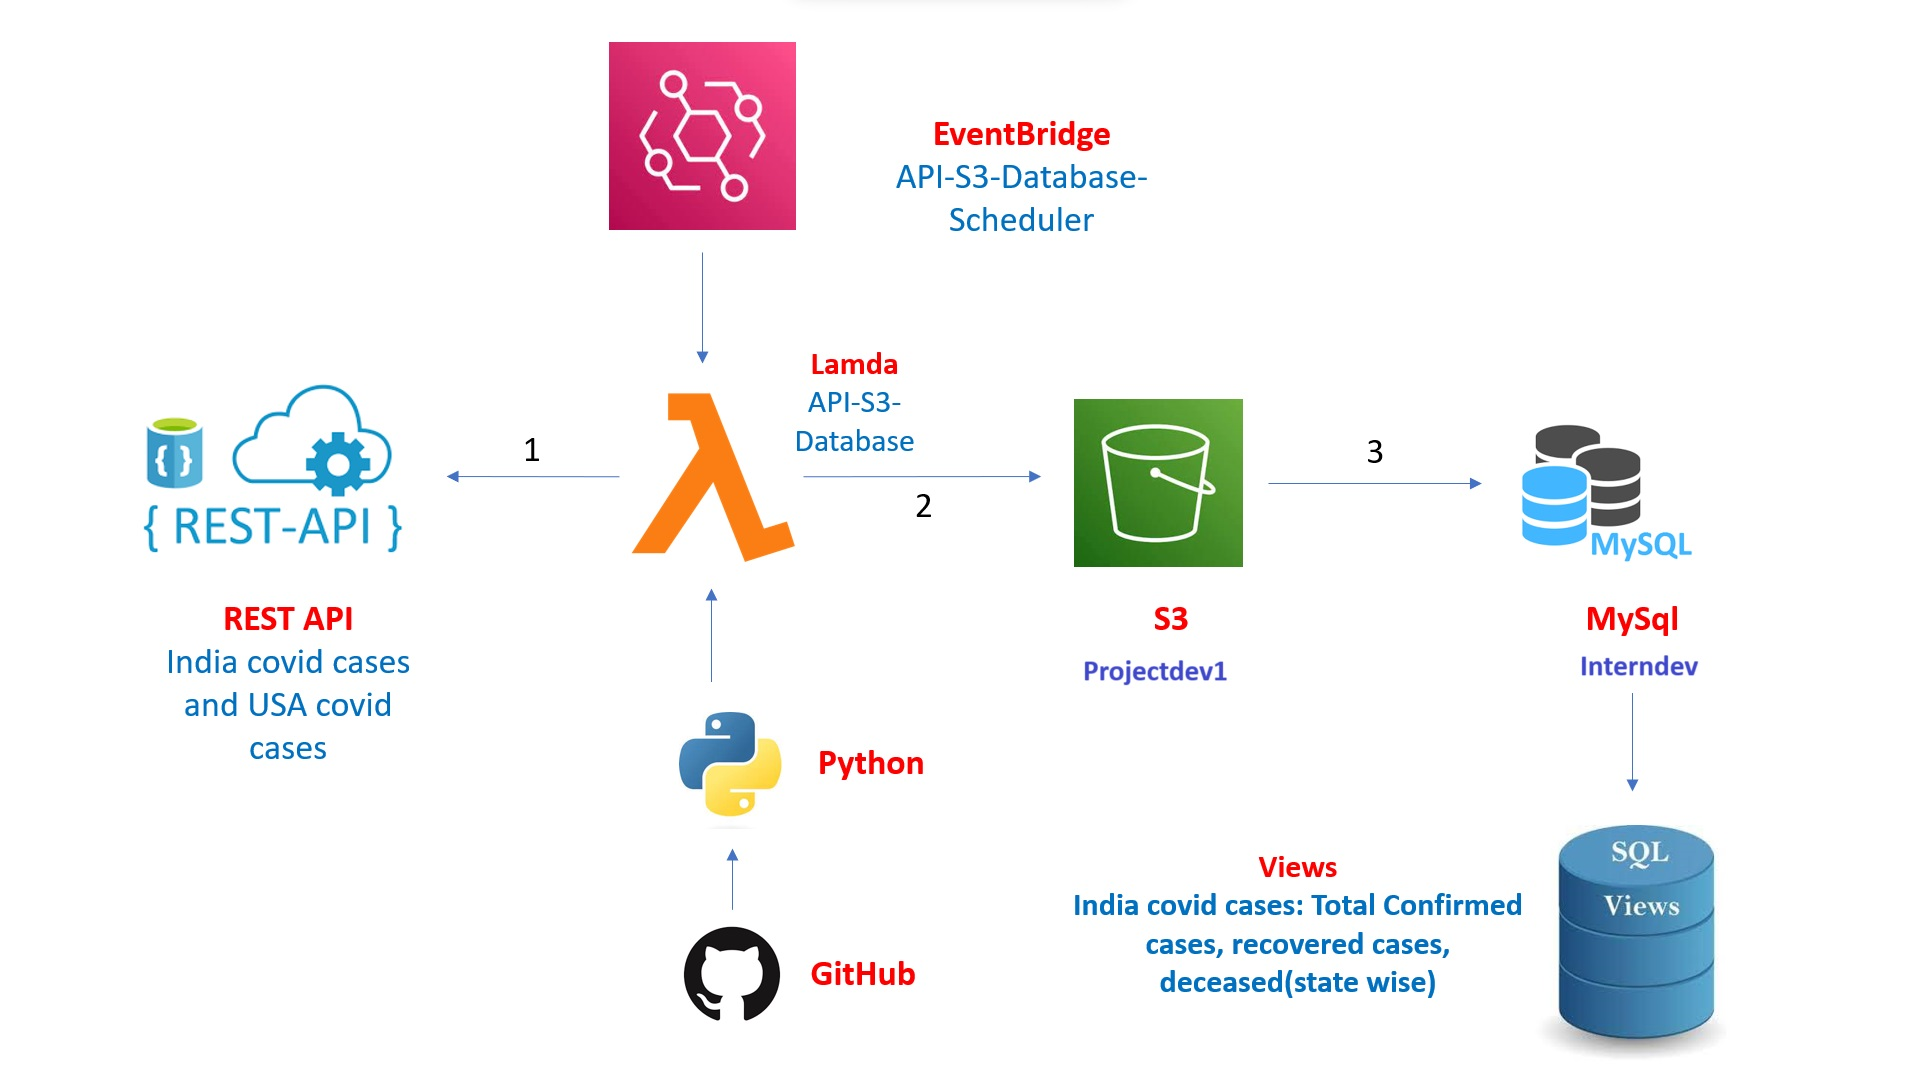
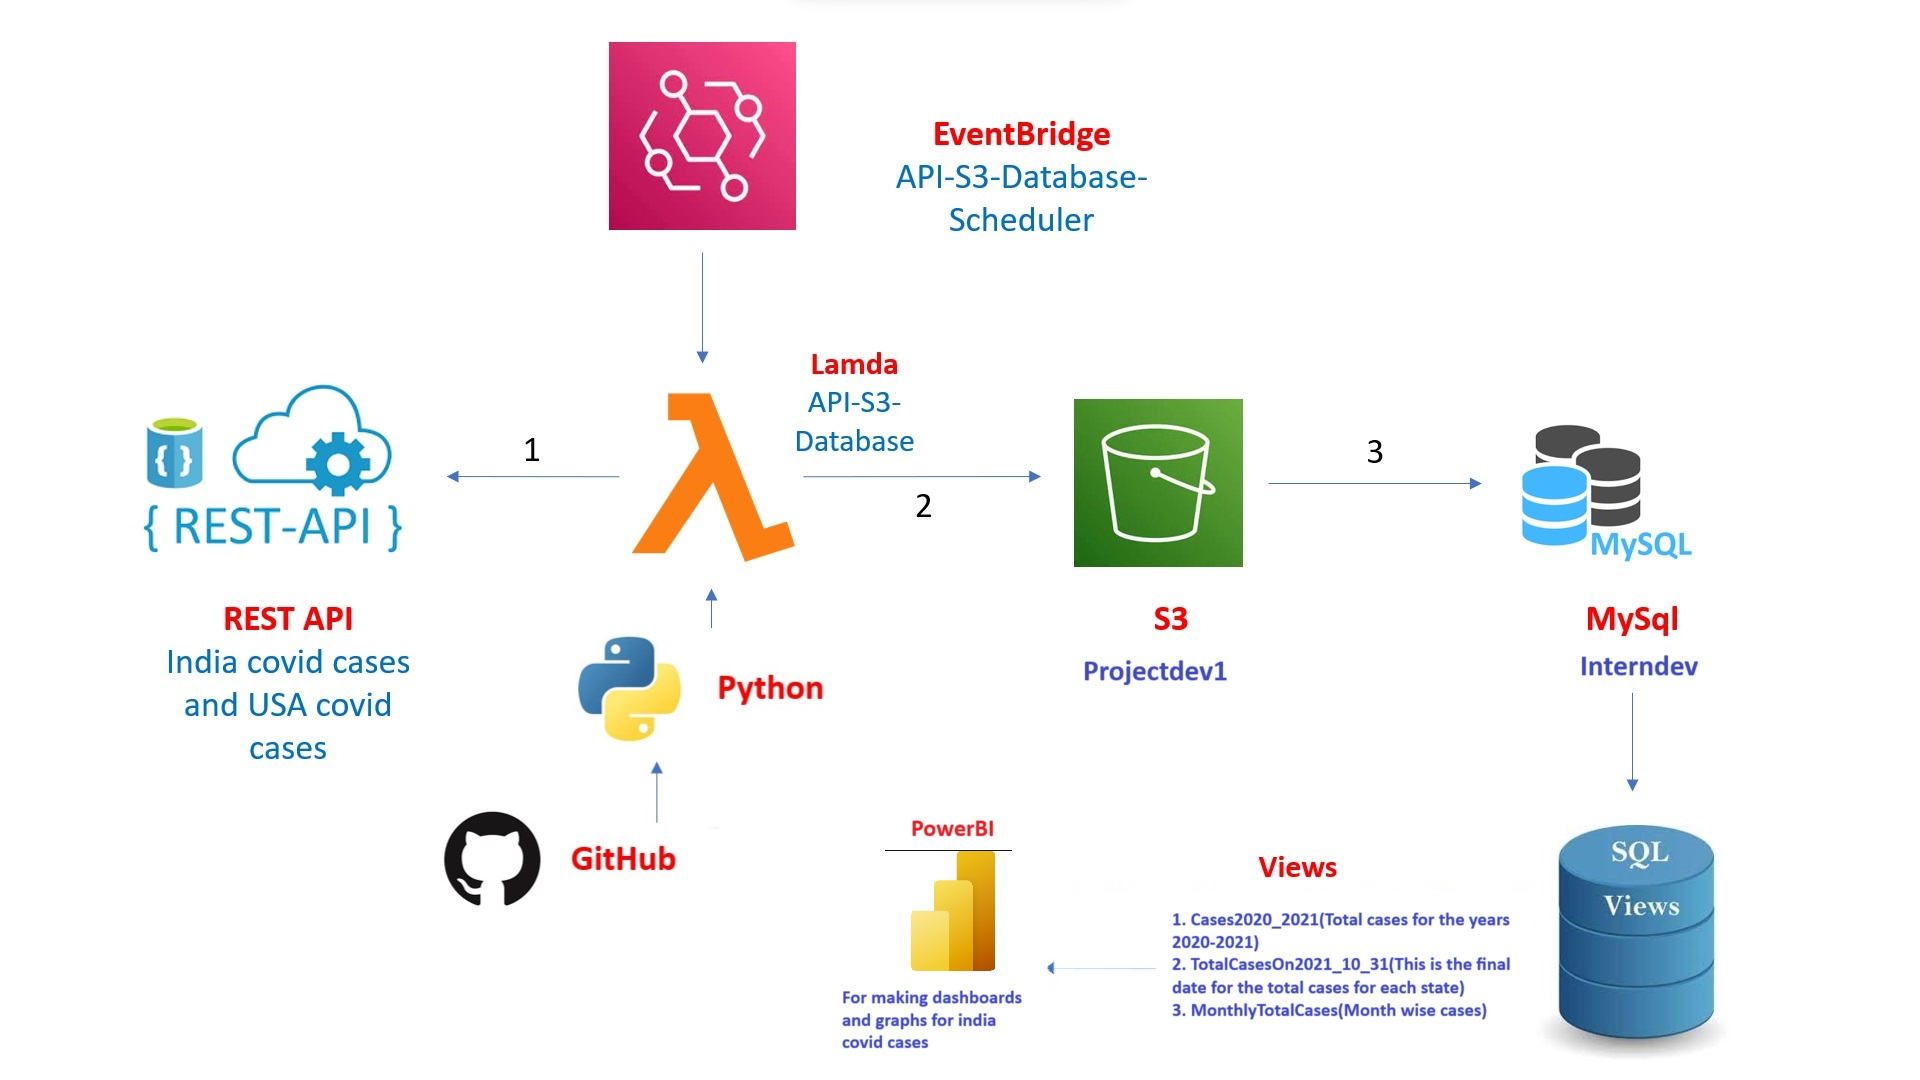
md update

diff --git a/README.md b/README.md
@@ -17,7 +17,17 @@ lastly, Views are been created as '**vw_statewise_cases**' for india covid cases
 ## **AWS EventBridge**
 In the AWS platform, there is schedule created for the exisitng lamda function which runs for every 12 hours.
 
+## **PowerBI Dashboard**
+In this the tables present in the BIDatamart database(only india covid cases table) is converted into diffrent graphs according to diffrent scenarios.(can refer to the pdf file in 'powerBI_dashboard folder')
+
+Below is the PowerBI Dashboard for India covid cases:
+
+![Dashboard_pic](powerBI_dashboard/Dashboard_pic.png)
+
 ## **FlowChart**
+
+This is the flowchart of the project
+
 ![flowchart](flowchart/Flow_Chart.jpg)
 
 ## **Technical Stack:**
